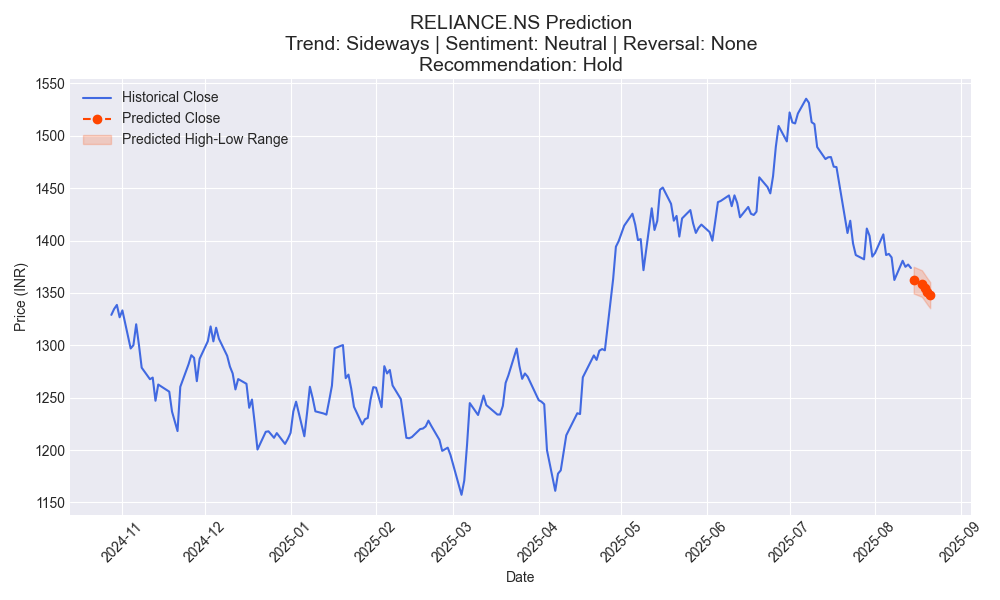
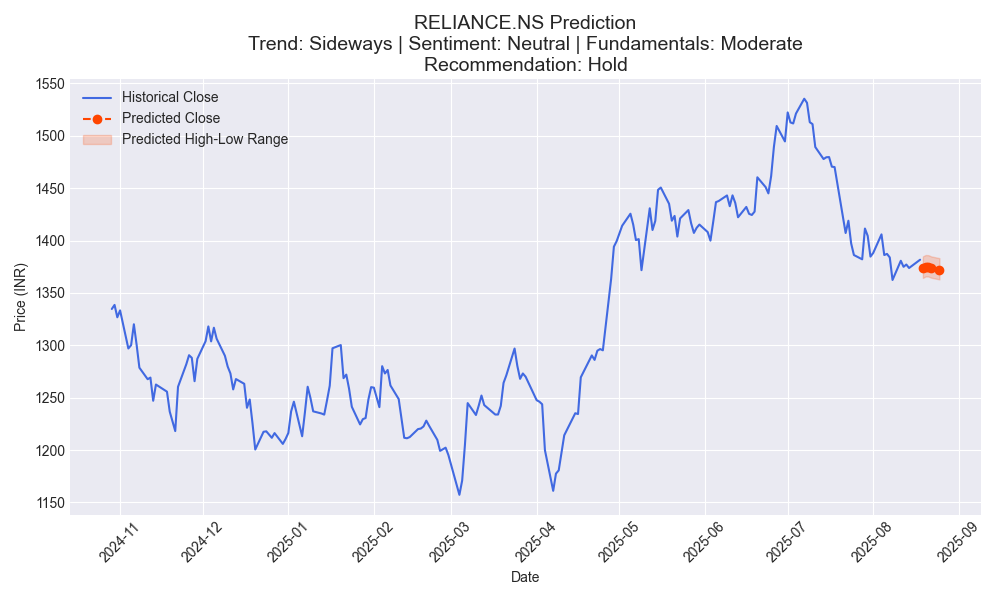
Final version for deployment

diff --git a/app.py b/app.py
@@ -16,6 +16,7 @@ from datetime import date, timedelta, datetime
 import matplotlib.pyplot as plt
 import warnings
 import os
+import sys  # Added for logging
 from newsapi import NewsApiClient
 import nltk
 from flask import Flask, request, jsonify, render_template
@@ -50,6 +51,51 @@ newsapi = NewsApiClient(api_key=NEWS_API_KEY)
 
 
 # --- 3. All Helper and Processing Functions ---
+
+def get_fundamental_analysis(ticker):
+    """
+    Analyzes the fundamental strength of a stock based on key financial metrics.
+    """
+    try:
+        stock = yf.Ticker(ticker)
+        info = stock.info
+
+        score = 0
+        details = {}
+
+        # 1. P/E Ratio (lower is generally better, but not negative)
+        pe_ratio = info.get('trailingPE')
+        details['P/E Ratio'] = f"{pe_ratio:.2f}" if pe_ratio else "N/A"
+        if pe_ratio and 0 < pe_ratio < 25:
+            score += 1
+
+        # 2. Debt-to-Equity Ratio (lower is better, < 100% or 1.0 is ideal)
+        debt_to_equity = info.get('debtToEquity')
+        details['Debt/Equity'] = f"{(debt_to_equity / 100):.2f}" if debt_to_equity else "N/A"
+        if debt_to_equity is not None and debt_to_equity < 100:
+            score += 1
+
+        # 3. Return on Equity (ROE) (higher is better, > 15% is strong)
+        roe = info.get('returnOnEquity')
+        details['Return on Equity'] = f"{roe*100:.2f}%" if roe else "N/A"
+        if roe and roe > 0.15:
+            score += 1
+        
+        # 4. Profit Margin (higher is better, > 10% is good)
+        profit_margin = info.get('profitMargins')
+        details['Profit Margin'] = f"{profit_margin*100:.2f}%" if profit_margin else "N/A"
+        if profit_margin and profit_margin > 0.10:
+            score += 1
+
+        # Determine category based on score
+        if score >= 3: category = "Strong"
+        elif score == 2: category = "Moderate"
+        else: category = "Weak"
+        
+        return {"category": category, "details": details}
+
+    except Exception:
+        return {"category": "N/A", "details": {"Error": "Could not fetch fundamental data."}}
 
 def calculate_pivot_points(data):
     last_day = data.iloc[-1]
@@ -91,10 +137,13 @@ def get_sentiment_analysis(ticker):
 
 def process_stock_data(ticker):
     try:
-        # (The core logic of this function is identical to the last working version)
         data = yf.download(ticker, start='2015-01-01', end=date.today().strftime('%Y-%m-%d'), progress=False)
         if data.empty: return {"error": f"No data found for {ticker}."}
         if isinstance(data.columns, pd.MultiIndex): data.columns = data.columns.get_level_values(0)
+
+        # --- NEW: Get Fundamental Analysis ---
+        fundamental_analysis = get_fundamental_analysis(ticker)
+        fundamental_strength = fundamental_analysis['category']
 
         pivot_levels = calculate_pivot_points(data)
         data.ta.rsi(append=True); data.ta.macd(append=True); data.ta.bbands(length=20, std=2.0, append=True)
@@ -112,7 +161,6 @@ def process_stock_data(ticker):
             X_train.append(scaled_features[i-TIME_STEPS:i, :]); y_train.append(scaled_features[i, [high_col_idx, low_col_idx, close_col_idx]])
         X_train, y_train = np.array(X_train), np.array(y_train)
         
-        # Note: 'tensorflow' is imported as keras, and it works with the tensorflow-cpu package
         model = Sequential([
             LSTM(units=100, return_sequences=True, input_shape=(X_train.shape[1], X_train.shape[2])), Dropout(0.2),
             LSTM(units=100, return_sequences=False), Dropout(0.2), Dense(units=50), Dense(units=3)
@@ -143,13 +191,22 @@ def process_stock_data(ticker):
         
         sentiment_category = get_sentiment_analysis(ticker)
 
+        # --- UPDATED: Multi-factor Recommendation Logic ---
+        recommendation = "Hold" # Default
         if reversal_signal == "Bearish Divergence": recommendation = "Hold (Bearish Divergence)"
         elif reversal_signal == "Bullish Divergence": recommendation = "Hold (Bullish Divergence)"
-        elif trend == "Upward" and sentiment_category == "Positive": recommendation = "Strong Buy"
-        elif trend == "Upward": recommendation = "Buy"
-        elif trend == "Downward" and sentiment_category == "Negative": recommendation = "Strong Sell"
-        elif trend == "Downward": recommendation = "Sell"
-        else: recommendation = "Hold"
+        else:
+            if trend == "Upward":
+                if fundamental_strength == "Strong" and sentiment_category == "Positive": recommendation = "Strong Buy"
+                elif fundamental_strength in ["Strong", "Moderate"]: recommendation = "Buy"
+                else: recommendation = "Hold (Weak Fundamentals)" # Cautious on weak fundamentals
+            elif trend == "Downward":
+                if fundamental_strength == "Weak" and sentiment_category == "Negative": recommendation = "Strong Sell"
+                elif fundamental_strength == "Weak": recommendation = "Sell"
+                else: recommendation = "Hold (Monitor for Dip)" # Strong company, might be a buying opportunity
+            else: # Sideways trend
+                if fundamental_strength == "Strong": recommendation = "Hold / Accumulate"
+                else: recommendation = "Hold"
         
         prediction_dates = [d.strftime('%Y-%m-%d') for d in pd.bdate_range(start=pd.to_datetime(data['Date'].iloc[-1]) + timedelta(days=1), periods=PREDICTION_DAYS)]
         prediction_df = pd.DataFrame({'Date': prediction_dates, 'High': [f'{p:.2f}' for p in predicted_highs], 'Low': [f'{p:.2f}' for p in predicted_lows], 'Close': [f'{p:.2f}' for p in predicted_closes]})
@@ -160,18 +217,27 @@ def process_stock_data(ticker):
         plt.plot(historical_plot_data['Date'], historical_plot_data['Close'], label='Historical Close', color='royalblue')
         plt.plot(pd.to_datetime(prediction_df['Date']), predicted_closes, label='Predicted Close', linestyle='--', color='orangered', marker='o')
         plt.fill_between(pd.to_datetime(prediction_df['Date']), predicted_highs, predicted_lows, color='orangered', alpha=0.2, label='Predicted High-Low Range')
-        title_text = f'{ticker} Prediction\nTrend: {trend} | Sentiment: {sentiment_category} | Reversal: {reversal_signal}\nRecommendation: {recommendation}'
+        # --- UPDATED: Plot Title ---
+        title_text = f'{ticker} Prediction\nTrend: {trend} | Sentiment: {sentiment_category} | Fundamentals: {fundamental_strength}\nRecommendation: {recommendation}'
         plt.title(title_text, fontsize=14); plt.xlabel('Date'); plt.ylabel('Price (INR)')
         plt.legend(); plt.xticks(rotation=45); plt.tight_layout(); plt.savefig(plot_path); plt.close()
 
+        # --- UPDATED: JSON Response ---
         return {
-            "ticker": ticker, "prediction_table": prediction_df.to_dict(orient='records'),
-            "summary": {"Trend": trend, "Sentiment": sentiment_category, "Reversal Signal": reversal_signal, "Recommendation": recommendation},
+            "ticker": ticker, 
+            "prediction_table": prediction_df.to_dict(orient='records'),
+            "summary": {
+                "Trend": trend, 
+                "Sentiment": sentiment_category, 
+                "Fundamental Strength": fundamental_strength,
+                "Reversal Signal": reversal_signal, 
+                "Recommendation": recommendation
+            },
+            "fundamental_details": fundamental_analysis['details'],
             "pivot_points": {k: f'{v:.2f}' for k, v in pivot_levels.items()},
             "plot_url": f'/{plot_path}?t={time.time()}'
         }
     except Exception as e:
-        # Log the full error to the server log for debugging
         print(f"Error processing {ticker}: {e}", file=sys.stderr)
         return {"error": f"An unexpected error occurred. Check server logs for details."}
 
@@ -189,6 +255,5 @@ def predict():
     return jsonify(results)
 
 # --- 5. Run the App ---
-# This part is used for local testing. The production server (Gunicorn) will run the app differently.
 if __name__ == '__main__':
     app.run(debug=False)
